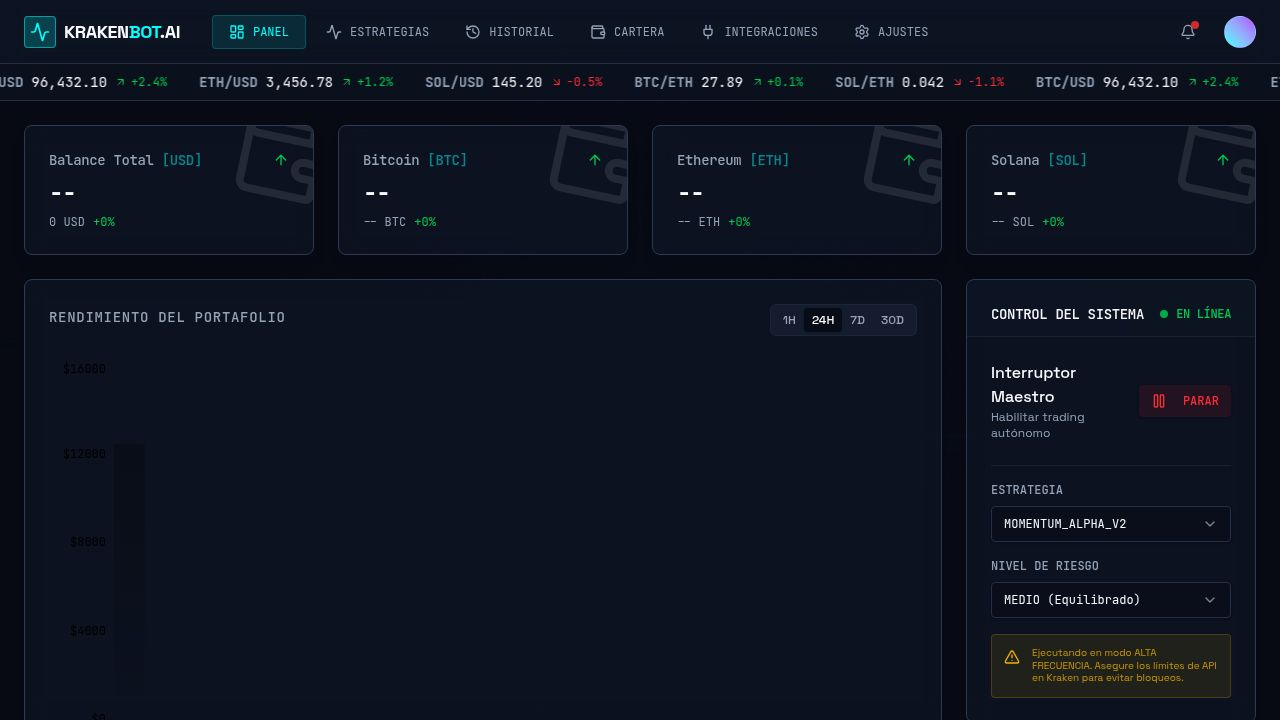
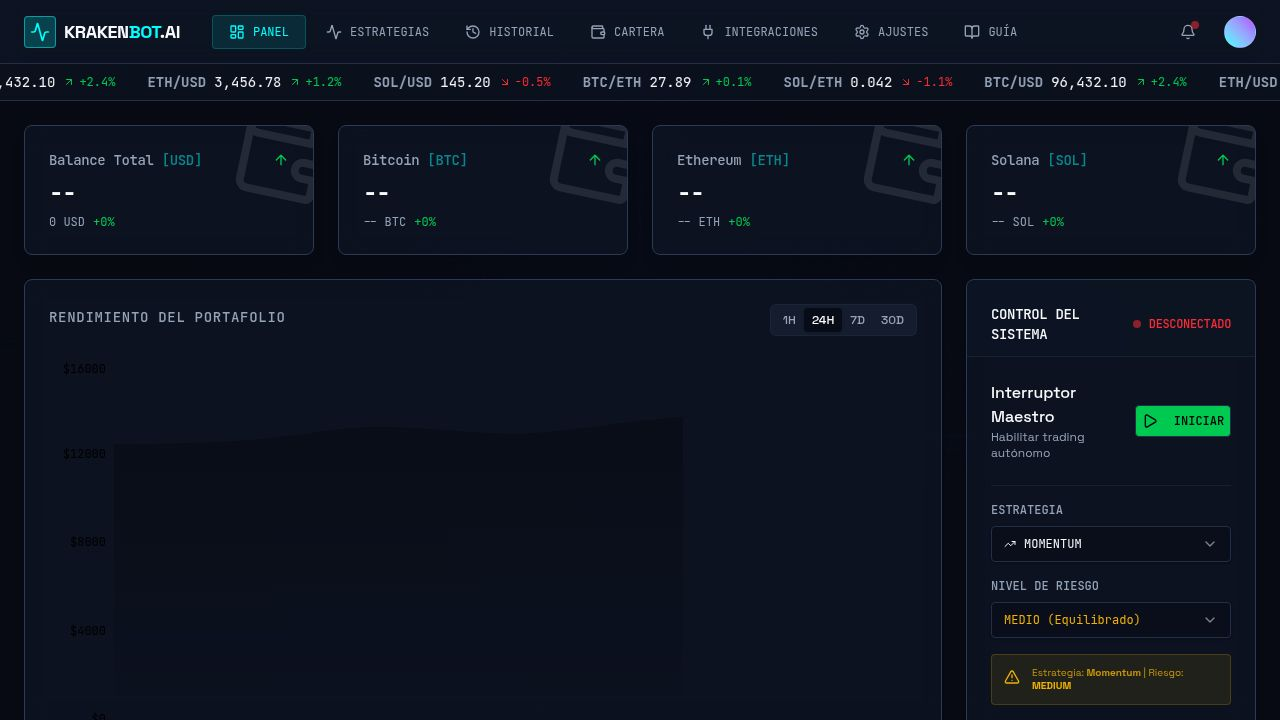
Synchronize dashboard controls with bot configuration settings
Refactors the BotControl component to fetch and update bot configurations from the API, ensuring consistency between the dashboard UI and actual bot settings.

Replit-Commit-Author: Agent
Replit-Commit-Session-Id: c695f34f-1c99-4eca-b138-c8cf86200c64
Replit-Commit-Checkpoint-Type: full_checkpoint
Replit-Commit-Event-Id: 4c1387d8-3d0c-43c6-96c4-87a5edd2e27b
Replit-Commit-Screenshot-Url: https://storage.googleapis.com/screenshot-production-us-central1/f2f0b80a-bd4e-47c7-b631-dbdb9559c027/c695f34f-1c99-4eca-b138-c8cf86200c64/kz8S4rE
Replit-Helium-Checkpoint-Created: true

diff --git a/client/src/components/dashboard/BotControl.tsx b/client/src/components/dashboard/BotControl.tsx
@@ -1,14 +1,47 @@
-import { useState } from "react";
 import { Card, CardContent, CardHeader, CardTitle } from "@/components/ui/card";
 import { Button } from "@/components/ui/button";
-import { Switch } from "@/components/ui/switch";
 import { Label } from "@/components/ui/label";
 import { Select, SelectContent, SelectItem, SelectTrigger, SelectValue } from "@/components/ui/select";
-import { Play, Pause, Settings, AlertTriangle } from "lucide-react";
+import { Play, Pause, AlertTriangle, TrendingUp, RefreshCw, Zap, Target } from "lucide-react";
 import { cn } from "@/lib/utils";
+import { useQuery, useMutation, useQueryClient } from "@tanstack/react-query";
+import { apiRequest } from "@/lib/queryClient";
+import type { BotConfig } from "@shared/schema";
+
+const STRATEGIES = [
+  { id: "momentum", name: "Momentum", icon: TrendingUp },
+  { id: "mean_reversion", name: "Reversión a la Media", icon: RefreshCw },
+  { id: "scalping", name: "Scalping", icon: Zap },
+  { id: "grid", name: "Grid Trading", icon: Target },
+];
+
+const RISK_LEVELS = [
+  { id: "low", name: "BAJO (Conservador)", color: "text-green-500" },
+  { id: "medium", name: "MEDIO (Equilibrado)", color: "text-yellow-500" },
+  { id: "high", name: "ALTO (Agresivo)", color: "text-red-500" },
+];
 
 export function BotControl() {
-  const [isActive, setIsActive] = useState(true);
+  const queryClient = useQueryClient();
+
+  const { data: config } = useQuery<BotConfig>({
+    queryKey: ["/api/bot/config"],
+  });
+
+  const updateMutation = useMutation({
+    mutationFn: async (updates: Partial<BotConfig>) => {
+      const res = await apiRequest("PATCH", "/api/bot/config", updates);
+      return res.json();
+    },
+    onSuccess: () => {
+      queryClient.invalidateQueries({ queryKey: ["/api/bot/config"] });
+      queryClient.invalidateQueries({ queryKey: ["/api/status"] });
+    },
+  });
+
+  const isActive = config?.isActive ?? false;
+  const currentStrategy = STRATEGIES.find(s => s.id === config?.strategy) || STRATEGIES[0];
+  const currentRisk = RISK_LEVELS.find(r => r.id === config?.riskLevel) || RISK_LEVELS[1];
 
   return (
     <Card className="glass-panel border-border/50">
@@ -33,7 +66,9 @@ export function BotControl() {
             size="sm"
             variant={isActive ? "destructive" : "default"}
             className={cn("w-24 font-mono transition-all", isActive ? "bg-red-500/10 text-red-500 border-red-500 hover:bg-red-500 hover:text-white" : "bg-green-500 text-black hover:bg-green-600")}
-            onClick={() => setIsActive(!isActive)}
+            onClick={() => updateMutation.mutate({ isActive: !isActive })}
+            disabled={updateMutation.isPending}
+            data-testid="button-toggle-bot"
           >
             {isActive ? (
               <><Pause className="mr-2 h-4 w-4" /> PARAR</>
@@ -46,28 +81,41 @@ export function BotControl() {
         <div className="space-y-4 pt-4 border-t border-border/50">
           <div className="grid gap-2">
             <Label className="text-xs font-mono text-muted-foreground">ESTRATEGIA</Label>
-            <Select defaultValue="momentum">
-              <SelectTrigger className="font-mono text-xs bg-background/50 border-border">
+            <Select 
+              value={config?.strategy || "momentum"}
+              onValueChange={(value) => updateMutation.mutate({ strategy: value })}
+            >
+              <SelectTrigger className="font-mono text-xs bg-background/50 border-border" data-testid="select-dashboard-strategy">
                 <SelectValue placeholder="Seleccionar estrategia" />
               </SelectTrigger>
               <SelectContent>
-                <SelectItem value="momentum">MOMENTUM_ALPHA_V2</SelectItem>
-                <SelectItem value="grid">GRID_NEUTRAL_HFT</SelectItem>
-                <SelectItem value="arbitrage">KRAKEN_ARBITRAGE</SelectItem>
+                {STRATEGIES.map((strategy) => (
+                  <SelectItem key={strategy.id} value={strategy.id}>
+                    <div className="flex items-center gap-2">
+                      <strategy.icon className="h-3 w-3" />
+                      <span>{strategy.name.toUpperCase()}</span>
+                    </div>
+                  </SelectItem>
+                ))}
               </SelectContent>
             </Select>
           </div>
 
           <div className="grid gap-2">
             <Label className="text-xs font-mono text-muted-foreground">NIVEL DE RIESGO</Label>
-            <Select defaultValue="medium">
-              <SelectTrigger className="font-mono text-xs bg-background/50 border-border">
+            <Select 
+              value={config?.riskLevel || "medium"}
+              onValueChange={(value) => updateMutation.mutate({ riskLevel: value })}
+            >
+              <SelectTrigger className="font-mono text-xs bg-background/50 border-border" data-testid="select-dashboard-risk">
                 <SelectValue placeholder="Seleccionar riesgo" />
               </SelectTrigger>
               <SelectContent>
-                <SelectItem value="low">BAJO (Conservador)</SelectItem>
-                <SelectItem value="medium">MEDIO (Equilibrado)</SelectItem>
-                <SelectItem value="high">ALTO (Agresivo)</SelectItem>
+                {RISK_LEVELS.map((level) => (
+                  <SelectItem key={level.id} value={level.id}>
+                    <span className={level.color}>{level.name}</span>
+                  </SelectItem>
+                ))}
               </SelectContent>
             </Select>
           </div>
@@ -75,7 +123,7 @@ export function BotControl() {
           <div className="bg-yellow-500/10 border border-yellow-500/20 p-3 rounded-md flex gap-3 items-start">
             <AlertTriangle className="h-4 w-4 text-yellow-500 shrink-0 mt-0.5" />
             <p className="text-[10px] text-yellow-500/80 leading-tight">
-              Ejecutando en modo ALTA FRECUENCIA. Asegure los límites de API en Kraken para evitar bloqueos.
+              Estrategia: <strong>{currentStrategy.name}</strong> | Riesgo: <strong className={currentRisk.color}>{currentRisk.id.toUpperCase()}</strong>
             </p>
           </div>
         </div>
